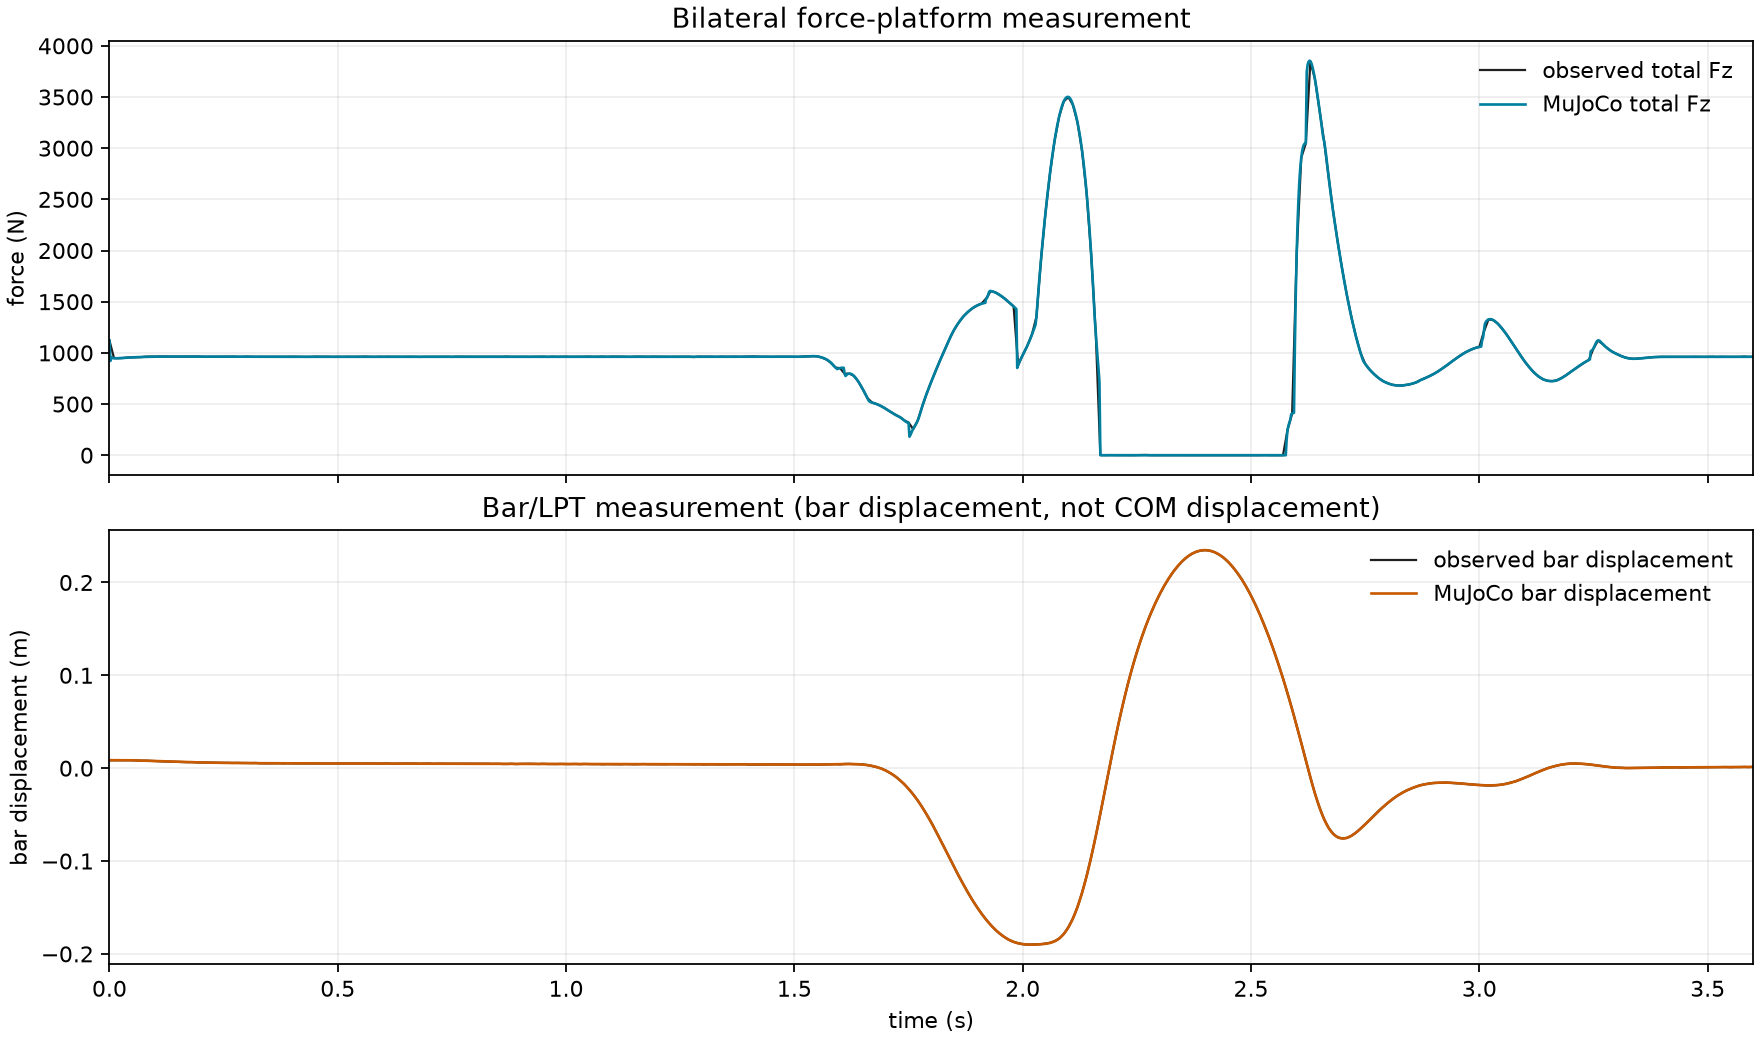
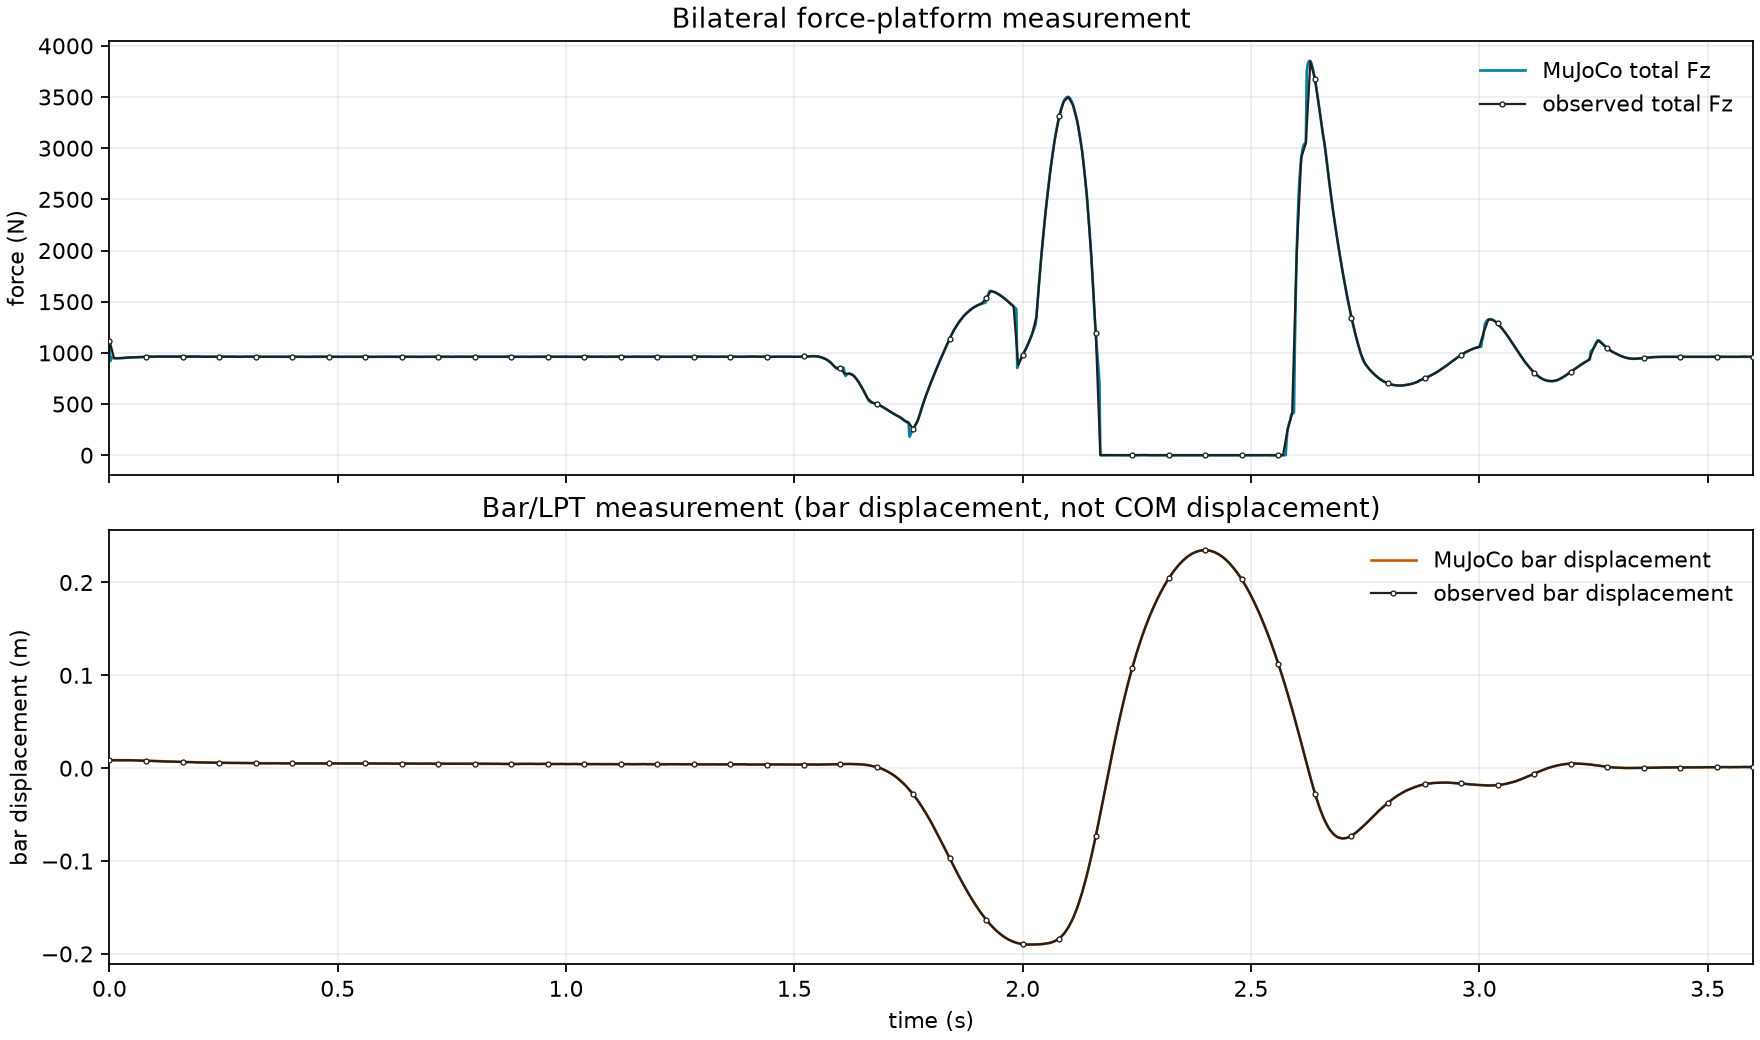
Make observed traces visible in comparison plot

diff --git a/examples/plot_observables.py b/examples/plot_observables.py
@@ -21,14 +21,18 @@ def main() -> None:
     observed = trial["observations"]
     predicted = result["traces"]
     fig, axes = plt.subplots(2, 1, figsize=(11, 6.5), sharex=True, constrained_layout=True)
-    axes[0].plot(observed["time_s"], observed["fz_total_N"], color="#202020", lw=1.0, label="observed total Fz")
-    axes[0].plot(predicted["time_s"], predicted["fz_total_N"], color="#007f9e", lw=1.2, label="MuJoCo total Fz")
+    axes[0].plot(predicted["time_s"], predicted["fz_total_N"], color="#007f9e", lw=1.2, label="MuJoCo total Fz", zorder=2)
+    axes[0].plot(observed["time_s"], observed["fz_total_N"], color="#202020", lw=1.0,
+                 marker="o", markersize=2.2, markevery=8, markerfacecolor="white",
+                 markeredgewidth=0.6, label="observed total Fz", zorder=3)
     axes[0].set_ylabel("force (N)")
     axes[0].set_title("Bilateral force-platform measurement")
     axes[0].legend(frameon=False)
     axes[0].grid(alpha=0.22)
-    axes[1].plot(observed["time_s"], observed["bar_displacement_m"], color="#202020", lw=1.0, label="observed bar displacement")
-    axes[1].plot(predicted["time_s"], predicted["bar_displacement_m"], color="#c85a00", lw=1.2, label="MuJoCo bar displacement")
+    axes[1].plot(predicted["time_s"], predicted["bar_displacement_m"], color="#c85a00", lw=1.2, label="MuJoCo bar displacement", zorder=2)
+    axes[1].plot(observed["time_s"], observed["bar_displacement_m"], color="#202020", lw=1.0,
+                 marker="o", markersize=2.2, markevery=8, markerfacecolor="white",
+                 markeredgewidth=0.6, label="observed bar displacement", zorder=3)
     axes[1].set_xlabel("time (s)")
     axes[1].set_ylabel("bar displacement (m)")
     axes[1].set_title("Bar/LPT measurement (bar displacement, not COM displacement)")
@@ -42,4 +46,3 @@ def main() -> None:
 
 if __name__ == "__main__":
     main()
-
